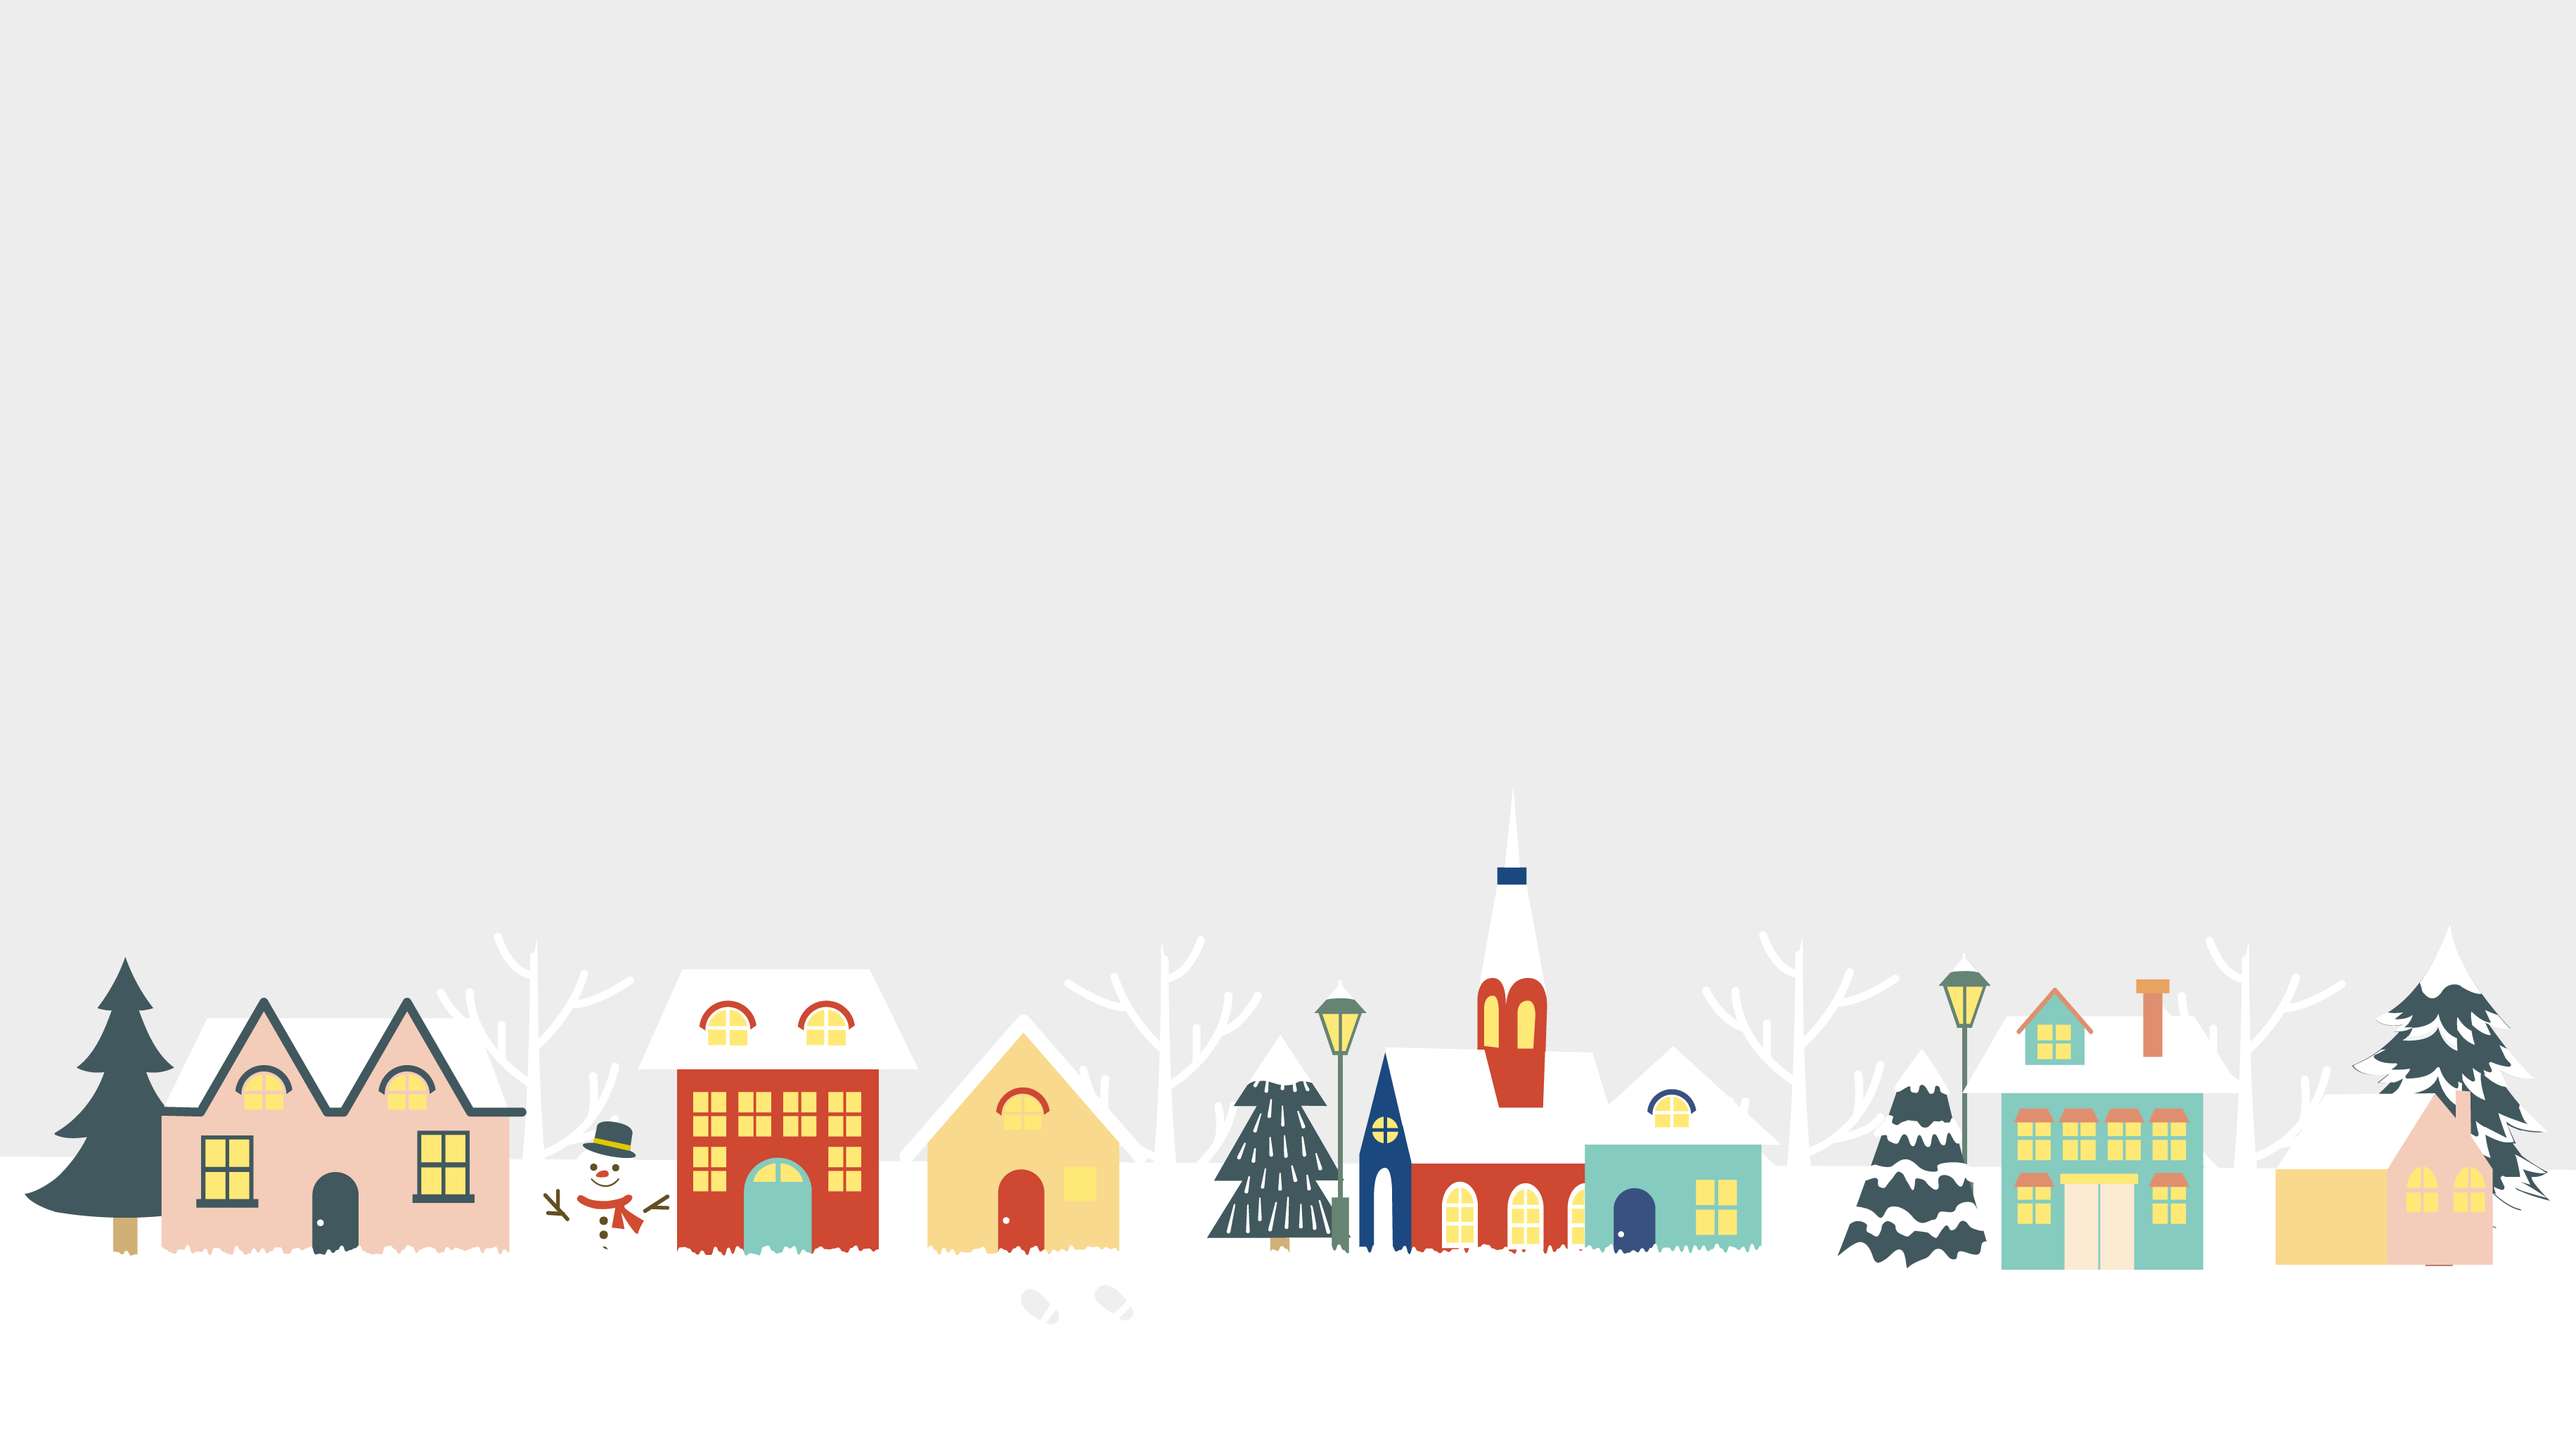
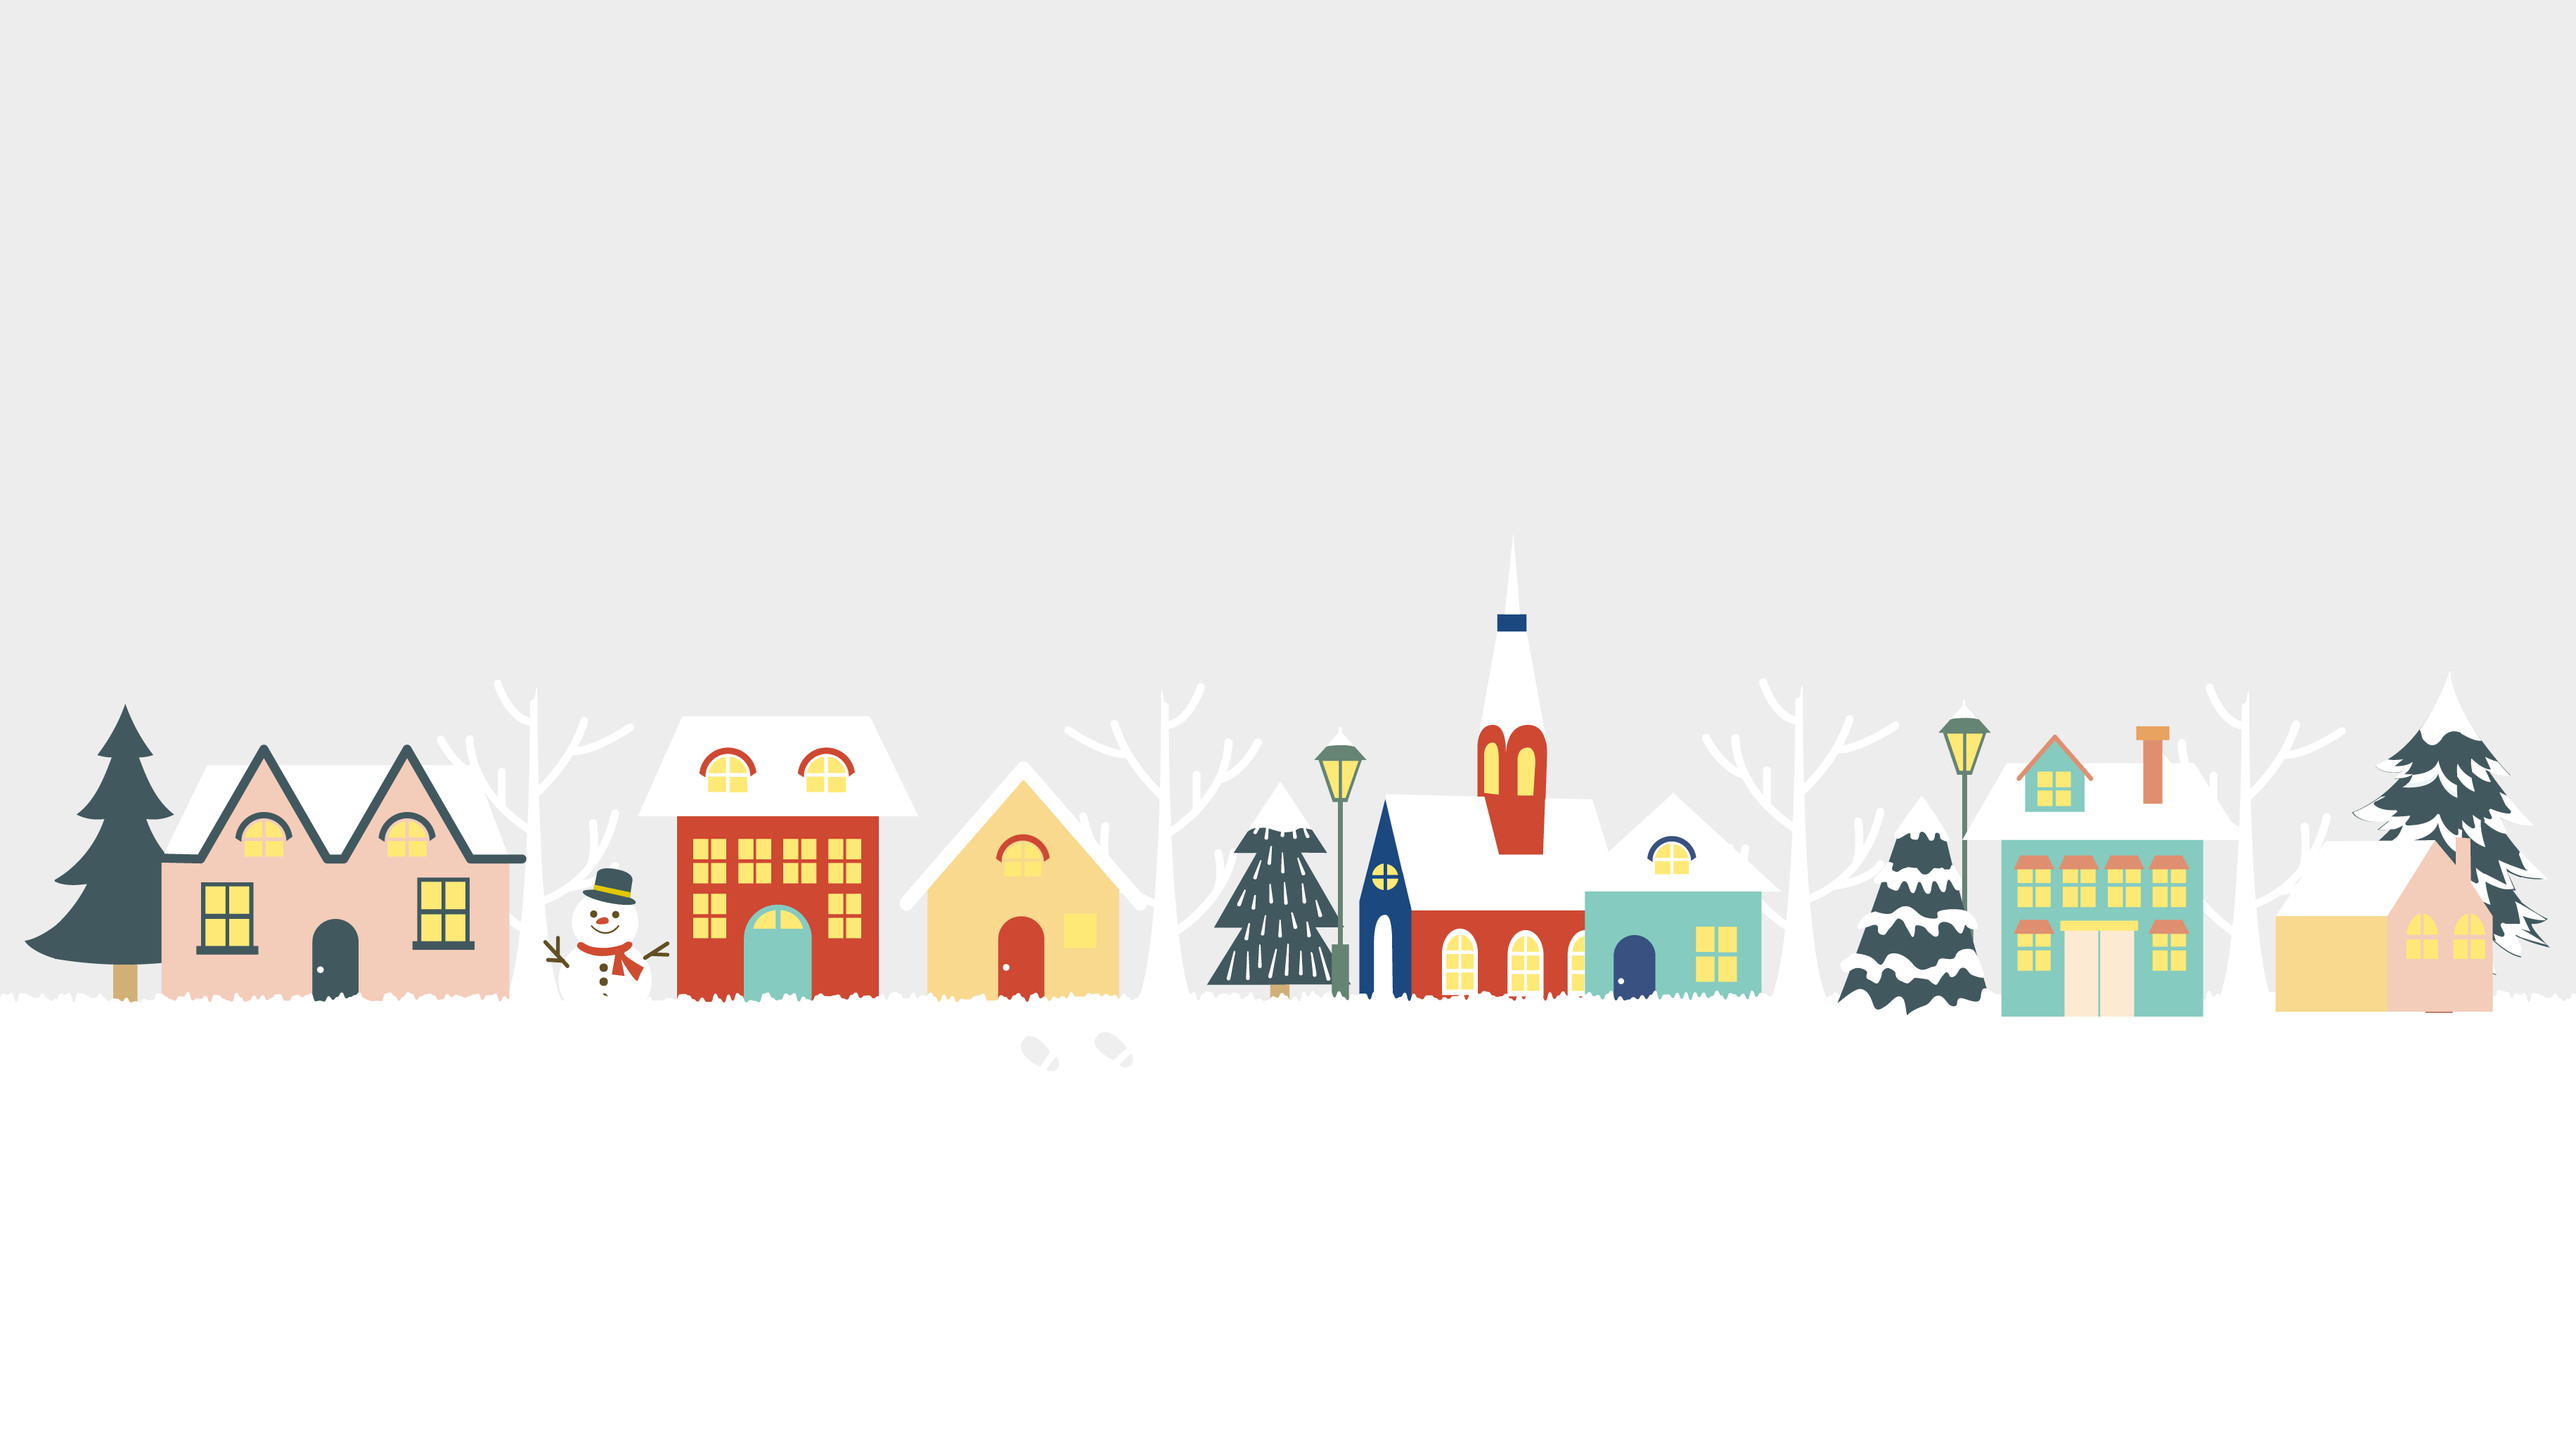
game-d レイアウト・バランス調整
- featured: 余白除去、canvas全画面フィット
- 背景: 画像差し替え、位置リセット
- キャラサイズ拡大（64→96px基準）
- ground位置を上に移動（72%）
- 出現間隔を広げ（1.5〜2.5秒）、速度を元に戻す
- 当たり判定を縮小（自キャラ60%x80%、障害物80%x90%）

diff --git a/src/pages/games/game-d/game.ts b/src/pages/games/game-d/game.ts
@@ -93,9 +93,9 @@ export function startGameD(mount?: HTMLElement) {
     destroyAll("game");
     setGravity(1800);
 
-    const groundY = height() - 90;
+    const groundY = height() * 0.72;
     const playerStartX = 88;
-    const playerH = 64;
+    const playerH = 96;
     const playerW = playerH * PLAYER_RATIO;
 
     let score = 0;
@@ -150,7 +150,7 @@ export function startGameD(mount?: HTMLElement) {
       sprite("player", { width: playerW, height: playerH }),
       pos(playerStartX, groundY),
       anchor("center"),
-      area(),
+      area({ shape: new k.Rect(k.vec2(0), playerW * 0.6, playerH * 0.8) }),
       body(),
       "player",
       "game",
@@ -188,9 +188,9 @@ export function startGameD(mount?: HTMLElement) {
     track(k.onKeyPress("space", jump));
     track(k.onKeyPress("up", jump));
 
-    const spawnBase = 1.1;
+    const spawnBase = 2.0;
     let spawnEvery = spawnBase;
-    let obstacleSpeed = 180;
+    let obstacleSpeed = 320;
 
     track(
       k.loop(0.12, () => {
@@ -200,14 +200,14 @@ export function startGameD(mount?: HTMLElement) {
 
         const obs = OBSTACLES[randi(0, OBSTACLES.length)];
         const s = rand(0.6, 1.8);
-        const obsH = 64 * s;
+        const obsH = 96 * s;
         const obsW = obsH * obs.ratio;
 
         const cat = add([
           sprite(`${obs.name}_a`, { width: obsW, height: obsH }),
           pos(width() + obsW, groundY + playerH / 2),
           anchor("bot"),
-          area(),
+          area({ shape: new k.Rect(k.vec2(0), obsW * 0.8, obsH * 0.9) }),
           scale(1),
           "obstacle",
           "game",
@@ -232,8 +232,8 @@ export function startGameD(mount?: HTMLElement) {
           }),
         );
 
-        spawnEvery = rand(0.75, 1.25);
-        obstacleSpeed = Math.min(420, obstacleSpeed + 3);
+        spawnEvery = rand(1.5, 2.5);
+        obstacleSpeed = Math.min(620, obstacleSpeed + 4);
       }),
     );
 

diff --git a/apps/featured/index.html b/apps/featured/index.html
@@ -6,9 +6,10 @@
     <title>Featured | kaplay-arcade</title>
     <link rel="stylesheet" href="../../src/shared/base.css" />
     <style>
-      body { background: #0b0e16; color: #e6e6e6; margin: 0; }
-      .wrap { height: 100dvh; display: grid; place-items: center; padding: 16px; box-sizing: border-box; }
+      body { background: #0b0e16; color: #e6e6e6; margin: 0; overflow: hidden; }
+      .wrap { width: 100vw; height: 100dvh; display: grid; place-items: center; }
       #mount { width: 100%; height: 100%; display: grid; place-items: center; }
+      #mount canvas { max-width: 100vw; max-height: 100dvh; }
     </style>
   </head>
   <body>
